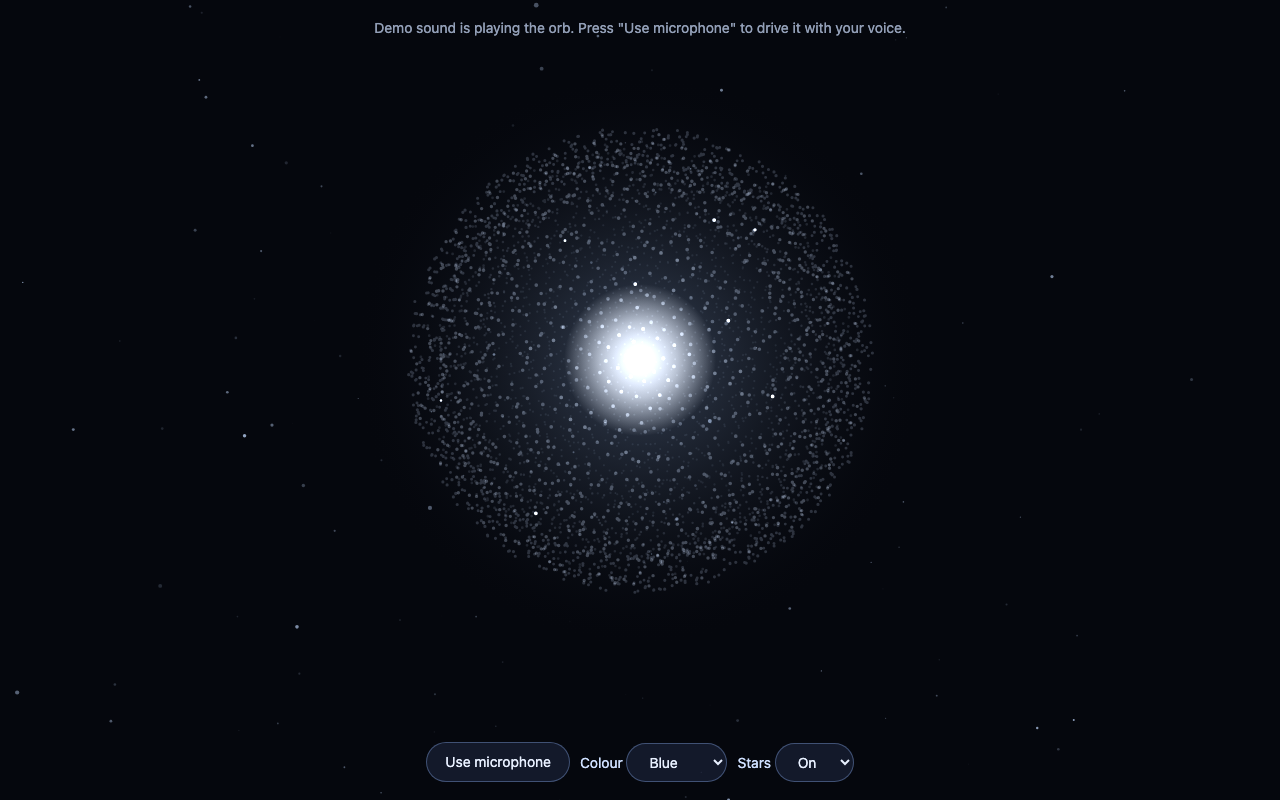
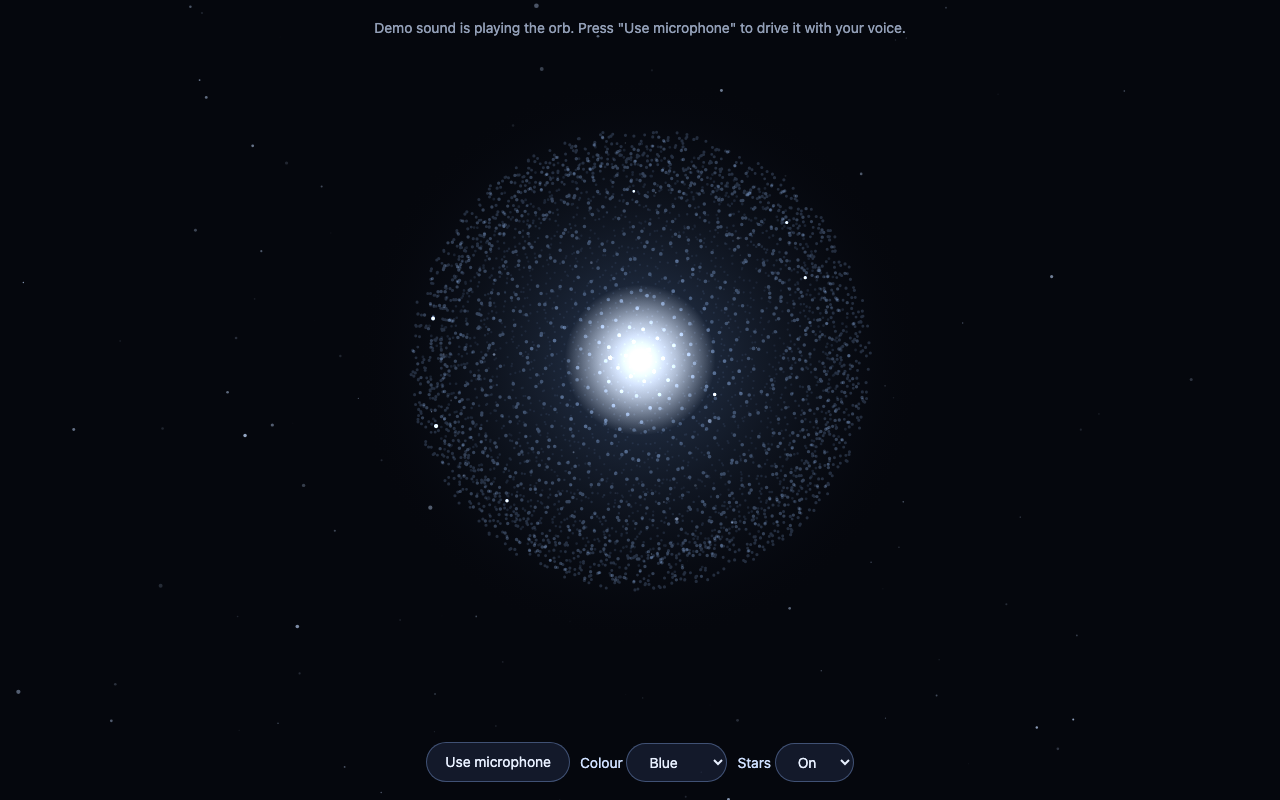
Stronger orb colours; fresh screenshot

Changed region(s): [[0.3125, 0.2188, 0.6875, 0.75], [0.3438, 0.1562, 0.5938, 0.375]]

diff --git a/index.html b/index.html
@@ -10,7 +10,7 @@
   html, body { margin: 0; height: 100%; background: #05070d; overflow: hidden;
                font: 14px/1.4 -apple-system, BlinkMacSystemFont, "Segoe UI", sans-serif; color: #cfe0ff; }
   canvas { position: fixed; inset: 0; width: 100%; height: 100%; display: block; }
-  #bar { position: fixed; left: 0; right: 0; bottom: max(18px, env(safe-area-inset-bottom));
+  #bar { box-sizing: border-box; position: fixed; left: 0; right: 0; bottom: max(18px, env(safe-area-inset-bottom));
          display: flex; gap: 10px; justify-content: center; align-items: center; flex-wrap: wrap; padding: 0 16px; }
   button, select { font: inherit; color: #e8f0ff; background: rgba(120,160,255,0.12);
          border: 1px solid rgba(150,185,255,0.35); border-radius: 999px; padding: 9px 18px; cursor: pointer; }
@@ -159,7 +159,7 @@ function vorbDraw(ctx, cx, cy, R, nowMs, rgb, lvl, breathe) {
   const sparkTarget = vorb.reduced ? 0 : Math.round(1 + hi * 63);
 
   /* state colour mixed toward white (a fixed white bias + per-point tint) */
-  const WB = 0.45;
+  const WB = 0.15;
   const cr = rgb[0] + (255 - rgb[0]) * WB;
   const cg = rgb[1] + (255 - rgb[1]) * WB;
   const cb = rgb[2] + (255 - rgb[2]) * WB;
@@ -189,7 +189,7 @@ function vorbDraw(ctx, cx, cy, R, nowMs, rgb, lvl, breathe) {
   for (let b = 0; b < NB; b++) {
     const d = (b + 0.5) / NB;
     const a = (0.06 + 0.44 * d * d) * (0.75 + lvl * 0.5);
-    const wh = 0.25 + d * 0.35;
+    const wh = 0.05 + d * 0.25;
     const lr2 = Math.round(cr + (255 - cr) * wh);
     const lg2 = Math.round(cg + (255 - cg) * wh);
     const lb2 = Math.round(cb + (255 - cb) * wh);
